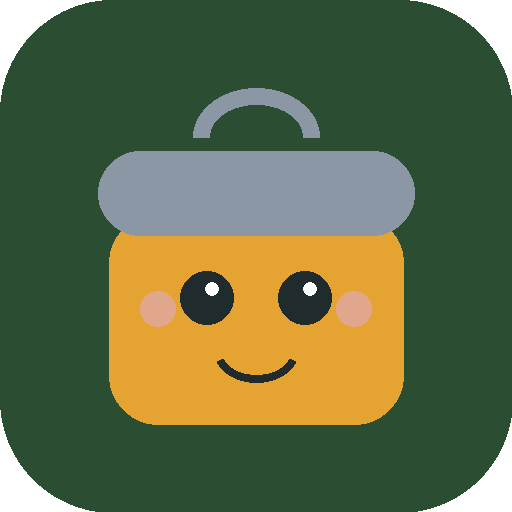
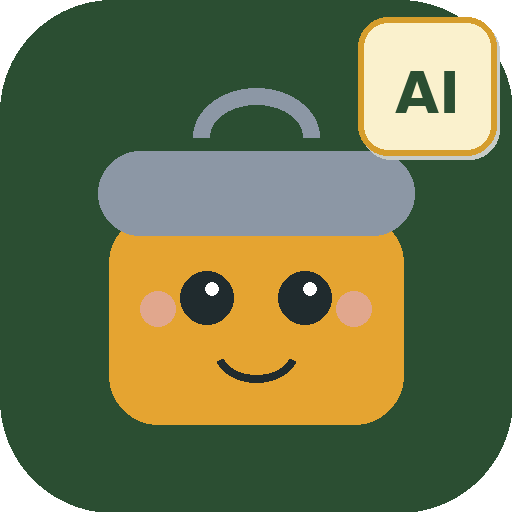
Add files via upload
Update part A

Changed region(s): [[0.6875, 0.0312, 1.0, 0.3125]]

diff --git a/app.js b/app.js
@@ -150,6 +150,7 @@
   /* ---------------- install prompt (Add to Home Screen) ---------------- */
   let deferredInstallPrompt = null;
   const isStandalone = window.matchMedia("(display-mode: standalone)").matches || window.navigator.standalone === true;
+  let updateCheckInProgress = false;
   window.addEventListener("beforeinstallprompt", (e) => {
     e.preventDefault();
     deferredInstallPrompt = e;
@@ -313,7 +314,8 @@
         <div class="wrap header-row">
           <div class="brand-wrap"><div class="mascot brand"><span class="brand-icon-wrap">${mascotSVG(38)}<span class="ai-brand-badge" title="AI-powered features" aria-label="AI-powered features">AI</span></span><span>Tiny Tiffin</span></div><div class="app-tagline">${t("tagline")}</div></div>
           <div class="header-controls">
-            <button class="theme-toggle" id="install-btn" aria-label="Install app" style="display:none">⬇️ Install</button>
+            <button class="theme-toggle install-action" id="install-btn" aria-label="Install app">⬇️ Install</button>
+            <button class="theme-toggle install-action" id="update-btn" aria-label="Check for software update">↻ Update</button>
             <button class="theme-toggle" id="theme-toggle" aria-label="${t('darkMode')}">${state.theme === "dark" ? "☀️" : "🌙"}</button>
             <select class="lang-select" id="lang-select" aria-label="Language">${langOptions}</select>
             <a class="admin-link" href="admin.html">${t("adminLink")}</a>
@@ -333,7 +335,7 @@
     });
     const installBtn = document.getElementById("install-btn");
     if (installBtn) {
-      if (deferredInstallPrompt && !isStandalone) installBtn.style.display = "inline-flex";
+      if (isStandalone) installBtn.style.display = "none";
       installBtn.addEventListener("click", async () => {
         if (deferredInstallPrompt) {
           deferredInstallPrompt.prompt();
@@ -345,6 +347,28 @@
           alert(isIOS
             ? "To install: tap the Share icon in Safari, then \"Add to Home Screen\"."
             : "To install: open your browser menu (⋮) and tap \"Add to Home screen\" or \"Install app\".");
+        }
+      });
+    }
+    const updateBtn = document.getElementById("update-btn");
+    if (updateBtn) {
+      updateBtn.addEventListener("click", async () => {
+        if (updateCheckInProgress) return;
+        updateCheckInProgress = true;
+        updateBtn.disabled = true;
+        updateBtn.textContent = "↻ Checking…";
+        try {
+          if ("serviceWorker" in navigator) {
+            const reg = await navigator.serviceWorker.getRegistration();
+            if (reg) await reg.update();
+          }
+          alert(`Tiny Tiffin ${CONFIG.version || "v1.0"} is up to date. If a new version was just deployed, reload once to receive it.`);
+          window.location.reload();
+        } catch (err) {
+          alert("Update check could not be completed. Please refresh the app and try again.");
+          updateBtn.disabled = false;
+          updateBtn.textContent = "↻ Update";
+          updateCheckInProgress = false;
         }
       });
     }

diff --git a/styles.css b/styles.css
@@ -490,3 +490,7 @@ html[data-theme="dark"] .ai-card h3,.ai-section-title{color:#9dffb4}
 html[data-theme="dark"] .ai-card p,.ai-muted{color:#d9f1e0}
 html[data-theme="dark"] .ai-answer,.ai-plan-list>div{background:#21352b;color:#effff3}
 @media(max-width:760px){.ai-grid{grid-template-columns:1fr}.ai-card{padding:16px}}
+
+/* Install and software update actions */
+.install-action { white-space: nowrap; }
+.install-action:disabled { opacity: .65; cursor: wait; }

diff --git a/sw.js b/sw.js
@@ -2,7 +2,7 @@
    Caches the app shell on install so it opens without a network
    connection after the first visit. Bump CACHE_NAME when you
    change any of the cached files so users get the update. */
-const CACHE_NAME = "tiny-tiffin-v1-0-ai-translation-2";
+const CACHE_NAME = "tiny-tiffin-v1-0-install-update-3";
 const SHELL_FILES = [
   "./",
   "./index.html",

diff --git a/README.md b/README.md
@@ -48,3 +48,10 @@ Recipes and nutrition figures are estimates for planning convenience, not medica
 
 ## v1.0 AI capabilities
 This release adds a local, privacy-friendly AI experience layer: Tiny Tiffin AI Assistant, AI Tiffin Planner, ingredient image upload/scanning workflow, AI recipe adaptation suggestions, and Smart Shopping List generation. These features work from the bundled recipe library without requiring an external API key.
+
+
+## Latest update
+- Restored visible Install App and Software Update controls.
+- PWA icons now use the Tiny Tiffin mascot with a matching AI badge.
+- Service-worker cache version bumped so deployed updates can refresh correctly.
+- Version remains synchronized from `site-config.js` (`v1.0`).